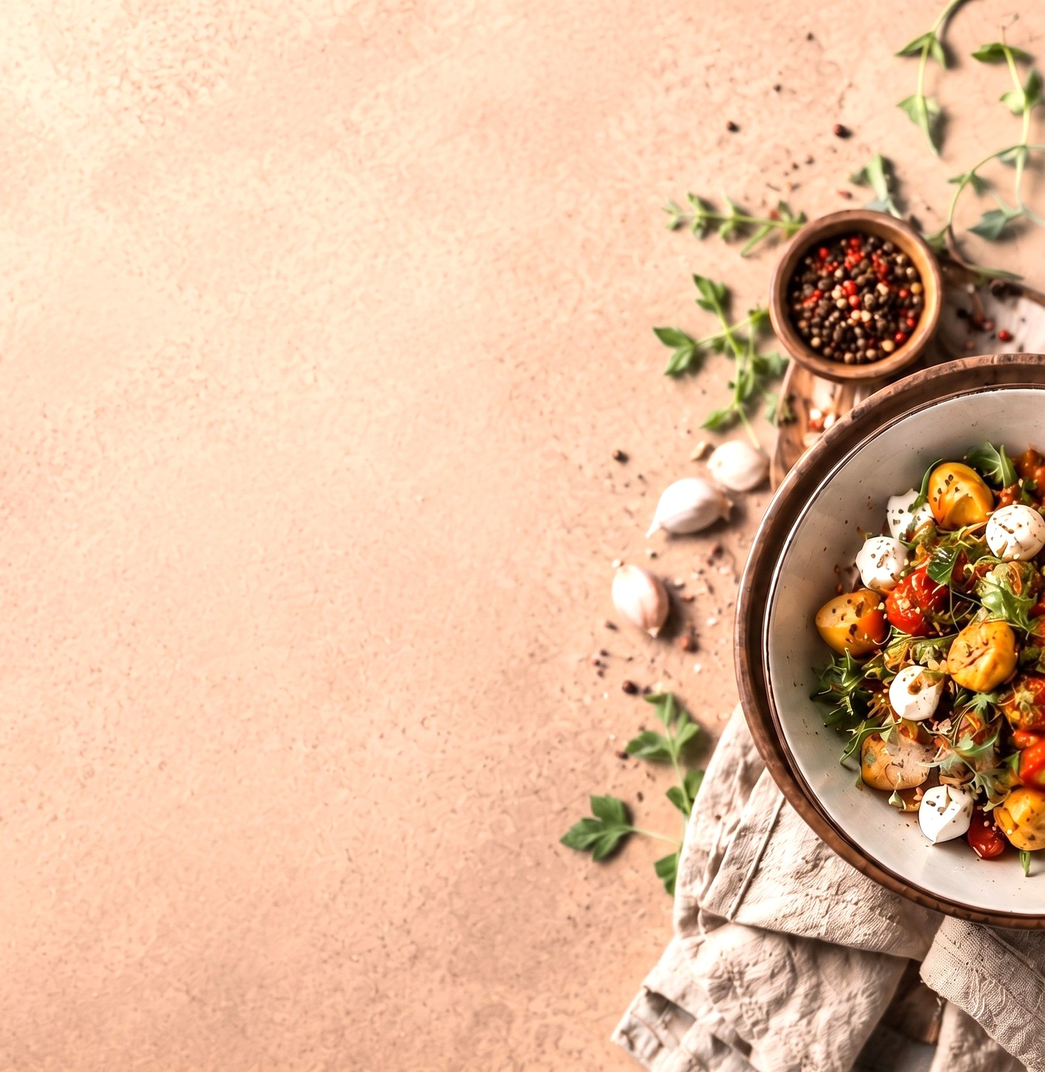
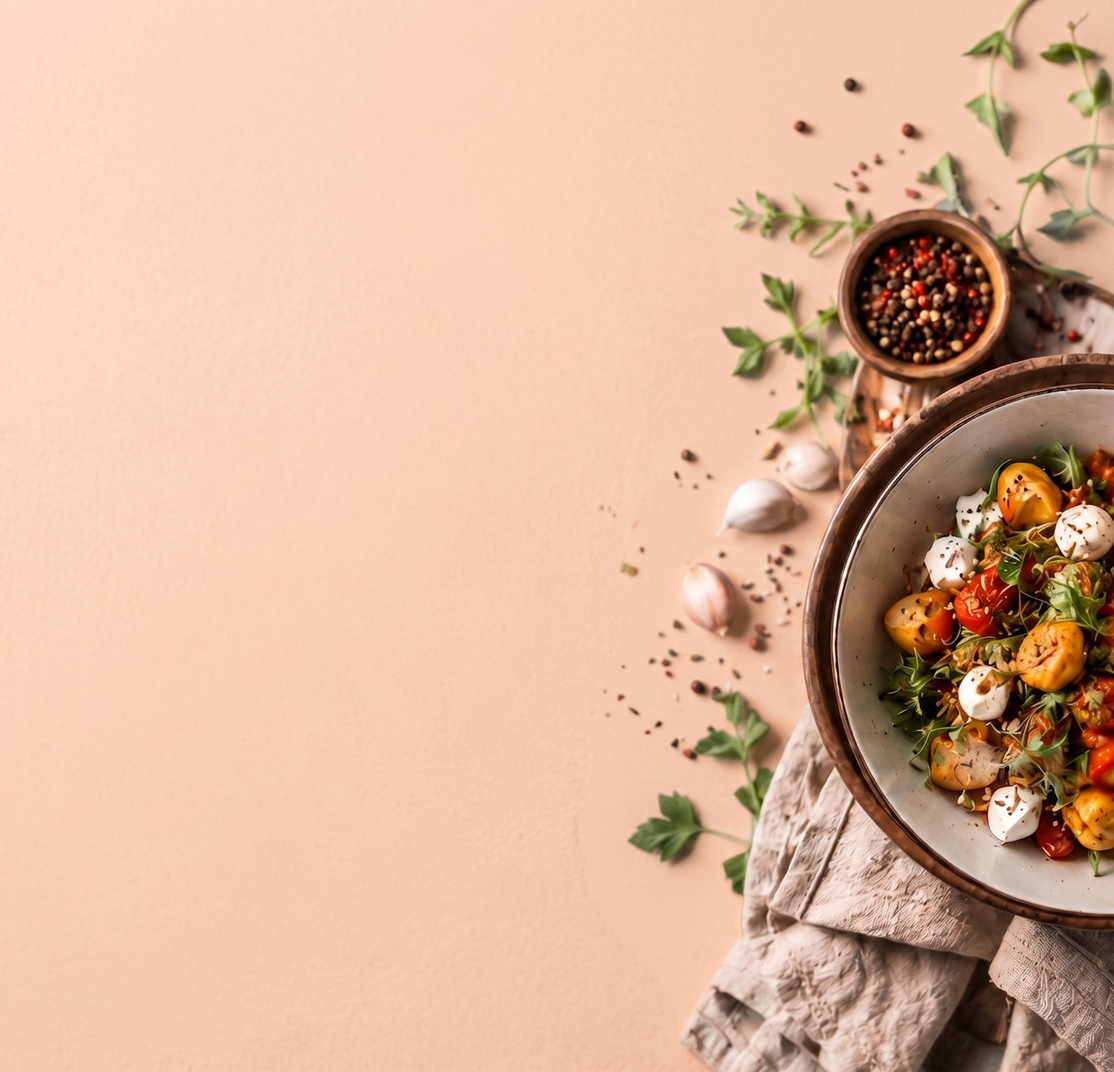
add new background image to login page

diff --git a/frontend/src/features/auth/pages/LoginPage.jsx b/frontend/src/features/auth/pages/LoginPage.jsx
@@ -1,5 +1,5 @@
 import styles from './LoginPage.module.css';
-import login_background from '../../../assets/images/login-background.jpg';
+import login_background from '../../../assets/images/customer-register-right-banner.png';
 import { useState } from 'react';
 import api from '../../../app/config/api';
 import LoginForm from '../components/LoginForm';

diff --git a/frontend/index.html b/frontend/index.html
@@ -1,5 +1,5 @@
 <!doctype html>
-<html lang="en" data-theme="dark">
+<html lang="en" data-theme="light">
 
 <head>
   <meta charset="UTF-8" />
